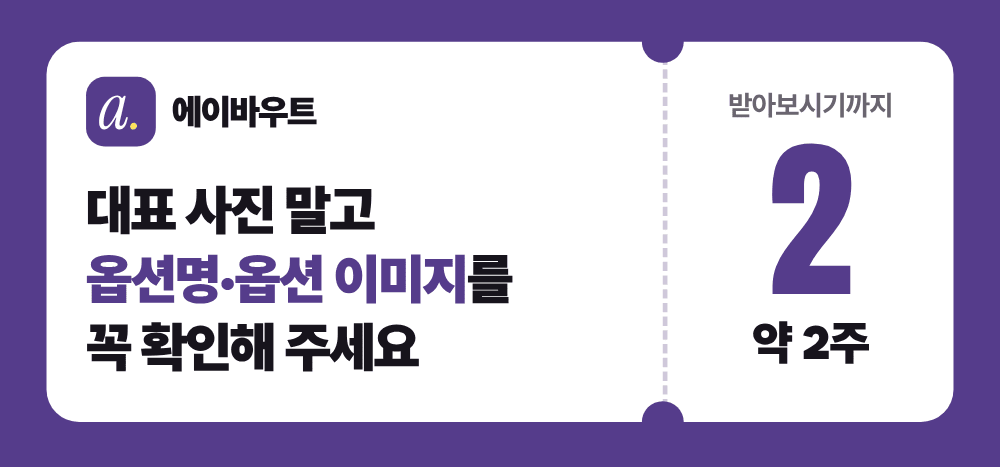
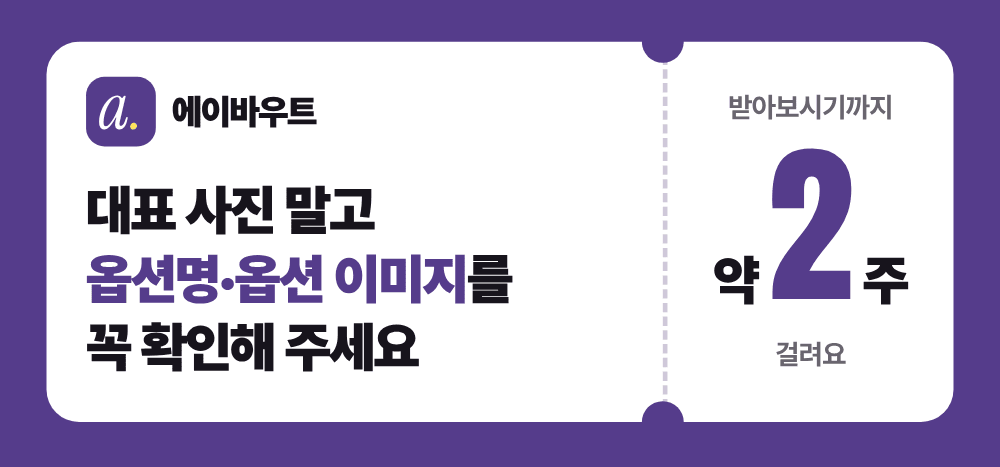
에이바우트 상단 티켓 오른쪽 문구를 '받아보시기까지 약 2주 걸려요'로 자연스럽게 수정
Claude-Session: https://claude.ai/code/session_01PE2ziTJ29XNj6qrJ9hNtvD

diff --git a/about-design/src/top.html b/about-design/src/top.html
@@ -10,11 +10,12 @@
  .l .t em{font-style:normal;color:var(--plum)}
  .r{border-left:4px dashed #CFC8DA;padding:30px 0 30px;text-align:center;display:flex;flex-direction:column;justify-content:center}
  .r .s{font-weight:700;font-size:var(--c);color:var(--gray)}
- .r .num{font-size:150px;color:var(--plum);margin-top:6px}
- .r .u{font-weight:900;font-size:40px;letter-spacing:-.03em}
+ .r .mid{display:flex;justify-content:center;align-items:baseline;gap:8px;margin:8px 0 12px}
+ .r .num{font-size:150px;color:var(--plum)}
+ .r .u{font-weight:900;font-size:46px;letter-spacing:-.03em}
 </style></head><body><div class="w">
  <div class="tk">
   <div class="l"><div class="logo"><span class="mark">a<i>.</i></span><span class="name">에이바우트</span></div><div class="t">대표 사진 말고<br><em>옵션명·옵션 이미지</em>를<br>꼭 확인해 주세요</div></div>
-  <div class="r"><div class="s">받아보시기까지</div><div class="num">2</div><div class="u">약 2주</div></div>
+  <div class="r"><div class="s">받아보시기까지</div><div class="mid"><span class="u">약</span><span class="num">2</span><span class="u">주</span></div><div class="s">걸려요</div></div>
  </div>
 </div></body></html>

diff --git a/about-design/src/top_c.html b/about-design/src/top_c.html
@@ -10,11 +10,12 @@
  .l .t em{font-style:normal;color:var(--plum)}
  .r{border-left:4px dashed #CFC8DA;padding:30px 0 30px;text-align:center;display:flex;flex-direction:column;justify-content:center}
  .r .s{font-weight:700;font-size:var(--c);color:var(--gray)}
- .r .num{font-size:150px;color:var(--plum);margin-top:6px}
- .r .u{font-weight:900;font-size:40px;letter-spacing:-.03em}
+ .r .mid{display:flex;justify-content:center;align-items:baseline;gap:8px;margin:8px 0 12px}
+ .r .num{font-size:150px;color:var(--plum)}
+ .r .u{font-weight:900;font-size:46px;letter-spacing:-.03em}
 </style></head><body><div class="w">
  <div class="tk">
   <div class="l"><div class="logo"><span class="mark">a<i>.</i></span><span class="name">에이바우트</span></div><div class="t">대표 사진 말고<br><em>옵션명·옵션 이미지</em>를<br>꼭 확인해 주세요</div></div>
-  <div class="r"><div class="s">받아보시기까지</div><div class="num">2</div><div class="u">약 2주</div></div>
+  <div class="r"><div class="s">받아보시기까지</div><div class="mid"><span class="u">약</span><span class="num">2</span><span class="u">주</span></div><div class="s">걸려요</div></div>
  </div>
 </div></body></html>
